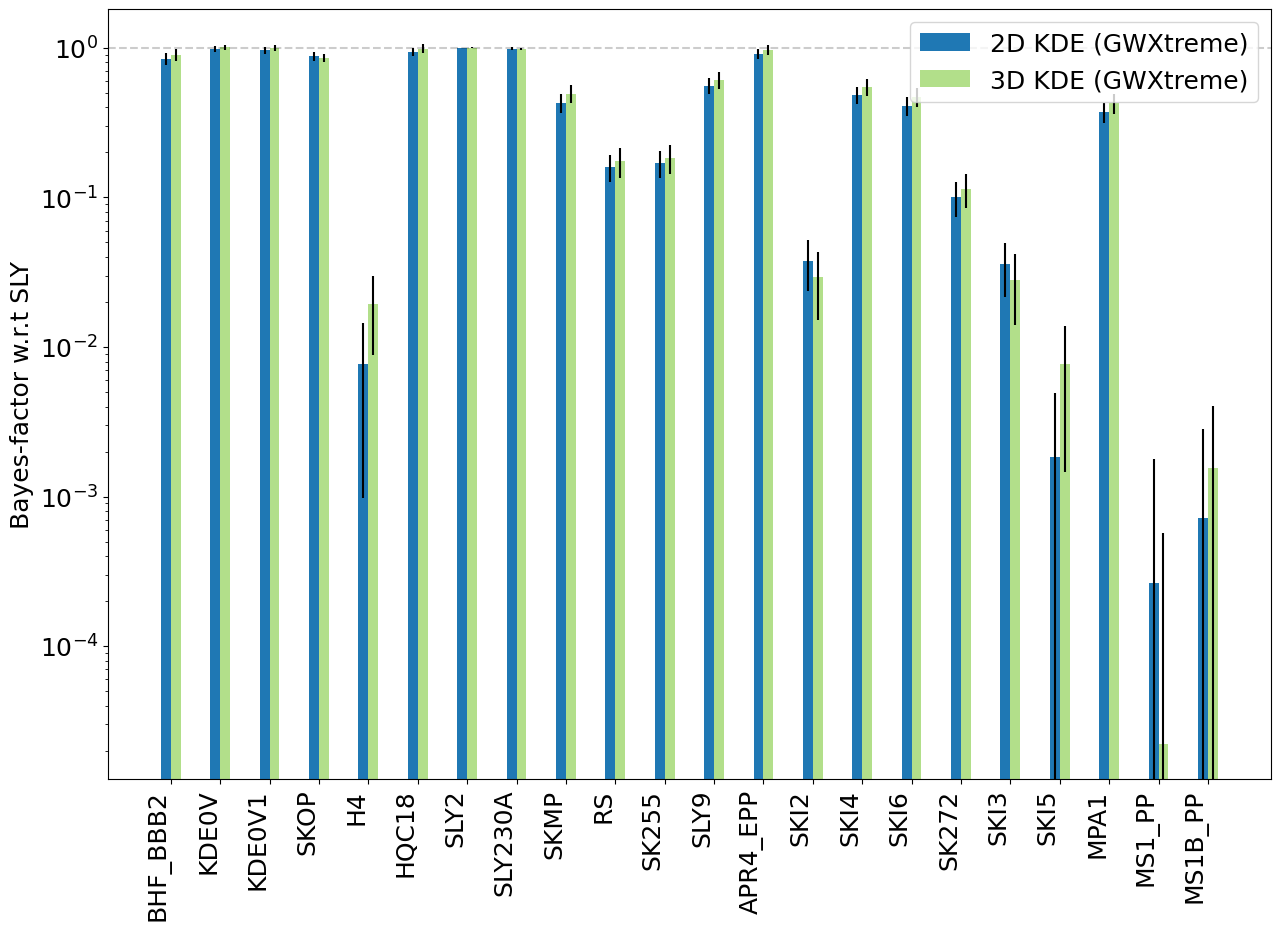
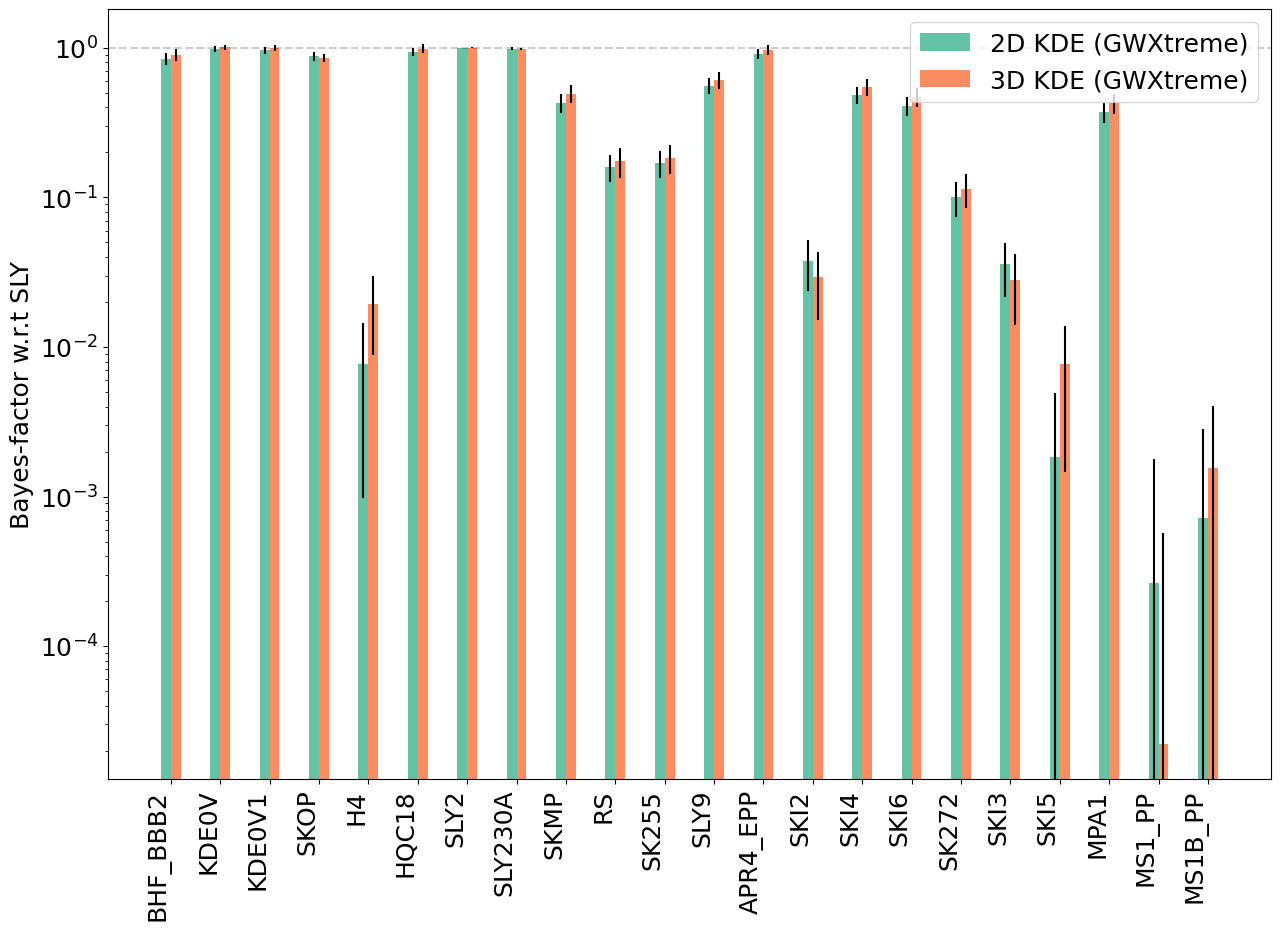
I meant to say, 1000 trial run for 3 BNS simulations at different distances.

Changed region(s): [[0.125, 0.0312, 0.9688, 0.8419], [0.7188, 0.0312, 0.7812, 0.0935]]

diff --git a/year3/PhenomTaylorCompare/simulationBFs_GWXtreme2024Paper.py b/year3/PhenomTaylorCompare/simulationBFs_GWXtreme2024Paper.py
@@ -86,7 +86,7 @@ def singleEventPlots():
         #colors = ["#66c2a5","#fc8d62"] # Colors we initially used
         #colors = ["#e41a1c", "#377eb8", "#4daf4a", "#984ea3"]
         #colors = ["#e41a1c", "#377eb8"]
-        colors = ["#1f78b4", "#b2df8a"]
+        colors = ["#66c2a5", "#fc8d62"]
         x_axis = np.arange(len(eosList))
 #        spacing = [-.3,-.1,.1,.3]
         spacing = [-.10,.10]
